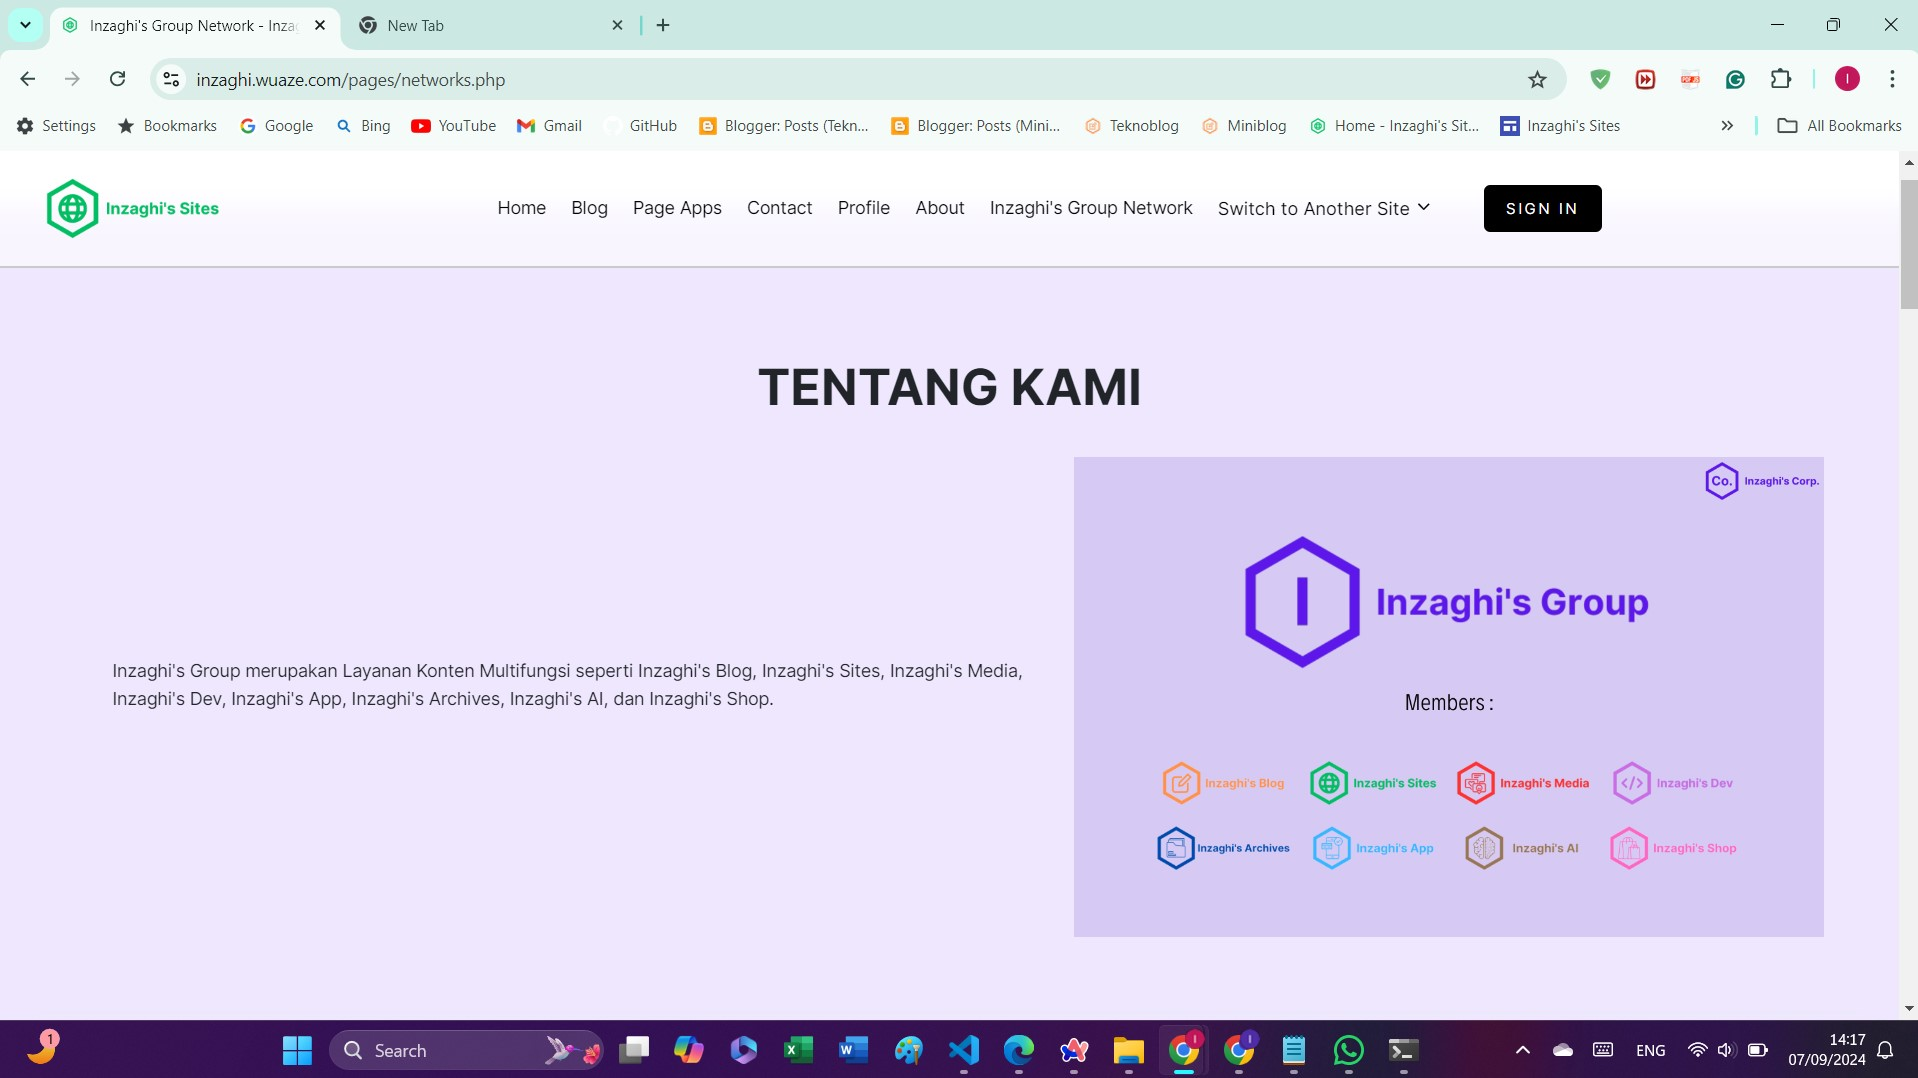
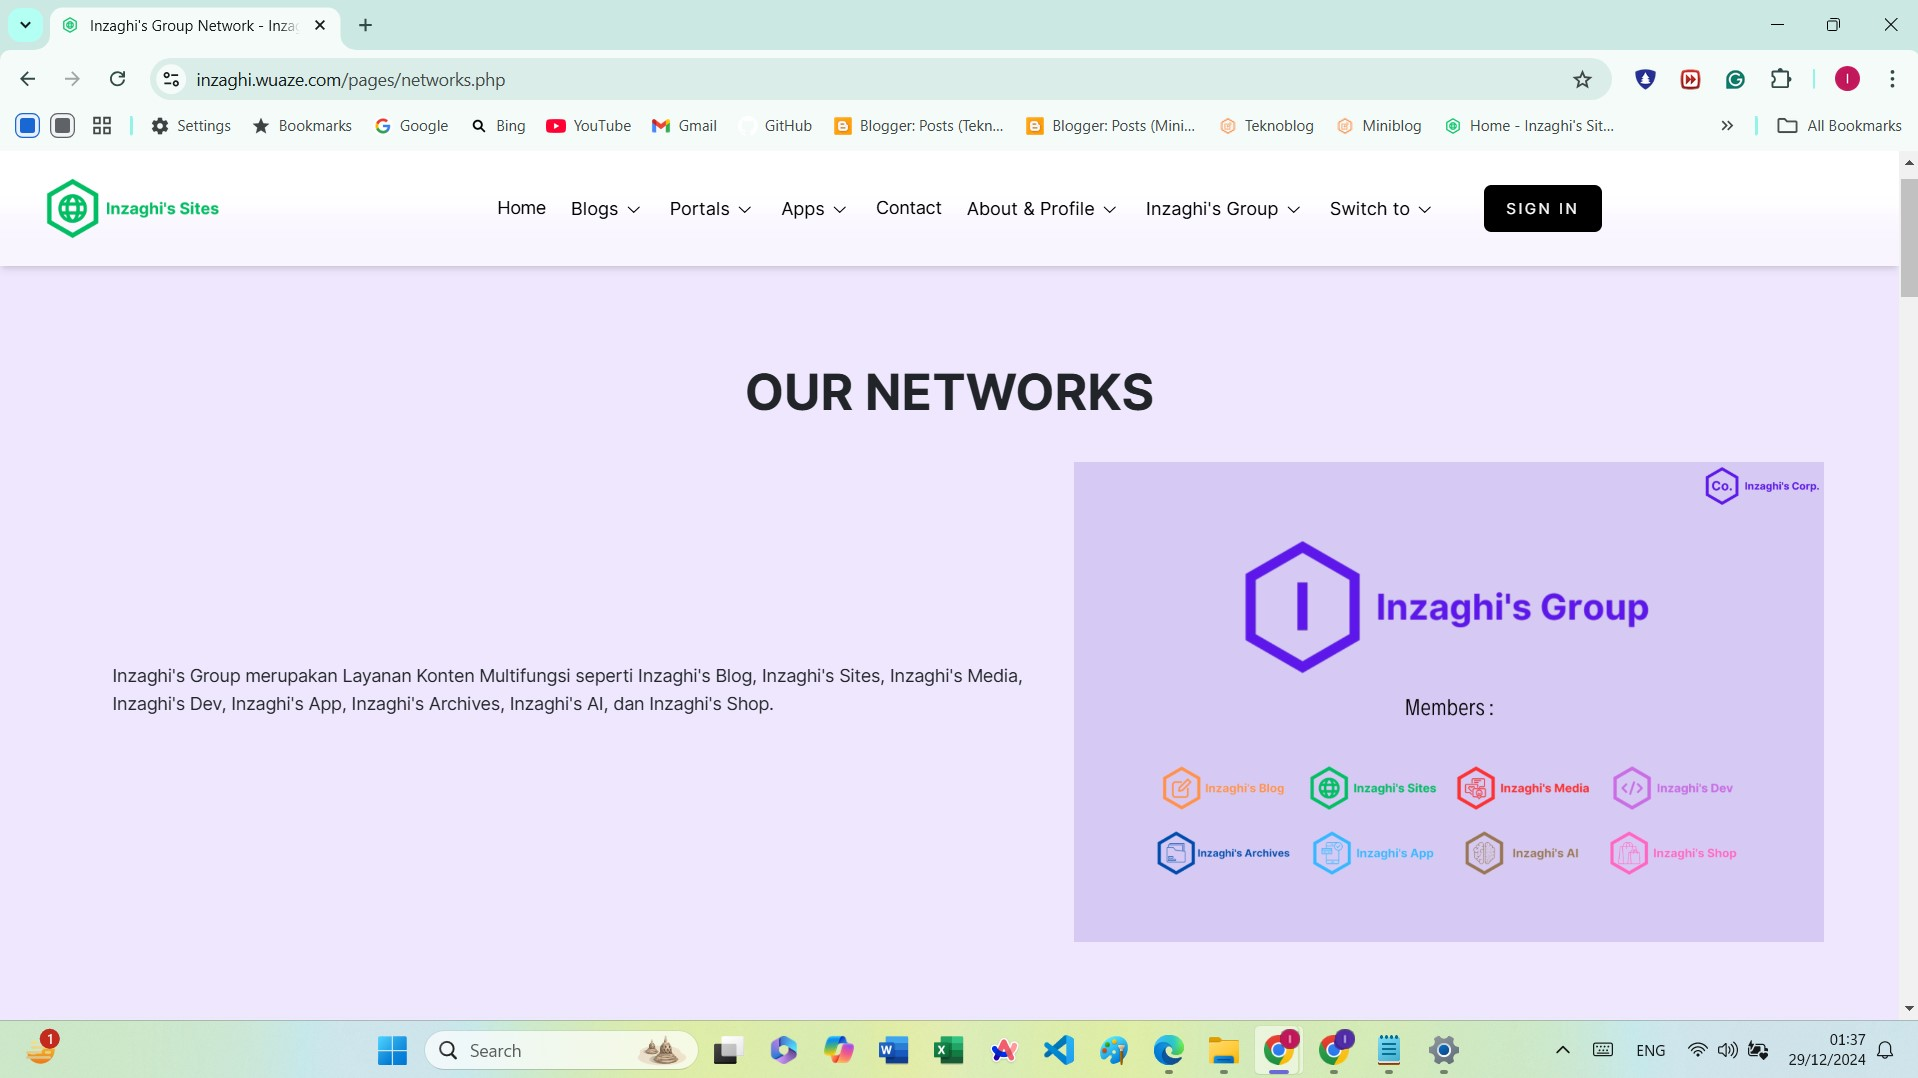
Edited some Files and Updated README.md

diff --git a/isites-php/components/navbar/navbar.php b/isites-php/components/navbar/navbar.php
@@ -44,9 +44,9 @@
                             <a href="<?php echo $pathToWebRoot.'/portals/tech-tutorials.php'; ?>" class="dropdown-link">Technology Tutorials</a>
                             <a href="<?php echo $pathToWebRoot.'/portals/projects.php'; ?>" class="dropdown-link">IT Project Lists</a>
                             <a href="<?php echo $pathToWebRoot.'/portals/interviews-and-thesis.php'; ?>" class="dropdown-link">Intervs &amp; Thesis Prep</a>
-                            <a href="<?php echo $pathToWebRoot.'/portals/file-converter.php'; ?>" class="dropdown-link">Materi Pembelajaran</a>
-                            <a href="<?php echo $pathToWebRoot.'/portals/utilities.php'; ?>" class="dropdown-link">Video Pages</a>
-                            <a href="<?php echo $pathToWebRoot.'/portals/tester-tools.php'; ?>" class="dropdown-link">Link Pages</a>
+                            <a href="<?php echo $pathToWebRoot.'/portals/learning-materials.php'; ?>" class="dropdown-link">Materi Pembelajaran</a>
+                            <a href="<?php echo $pathToWebRoot.'/portals/video-pages.php'; ?>" class="dropdown-link">Video Pages</a>
+                            <a href="<?php echo $pathToWebRoot.'/portals/link-pages.php'; ?>" class="dropdown-link">Link Pages</a>
                             <a href="<?php echo $pathToWebRoot.'/portals/miscellaneous.php'; ?>" class="dropdown-link">Miscellaneous</a>
                         </nav>
                         </div>

diff --git a/README.md b/README.md
@@ -26,7 +26,7 @@ Tampilan Aplikasi dari Page Apps :
 
 Tampilan Aplikasi dari Contact :
 
-![Contact us Inzaghi's Sites](/isites-php/images/inzaghis-sites-contact.jpg)
+![Contact Us Inzaghi's Sites](/isites-php/images/inzaghis-sites-contact.jpg)
 
 ## Inzaghi's Sites Profile
 
@@ -39,3 +39,9 @@ Tampilan Aplikasi dari Profile :
 Tampilan Aplikasi dari Networks :
 
 ![Networks Inzaghi's Sites](/isites-php/images/inzaghis-sites-networks.jpg)
+
+## Inzaghi's Sites About
+
+Tampilan Aplikasi dari About :
+
+![About Inzaghi's Sites](/isites-php/images/inzaghis-sites-about.jpg)
